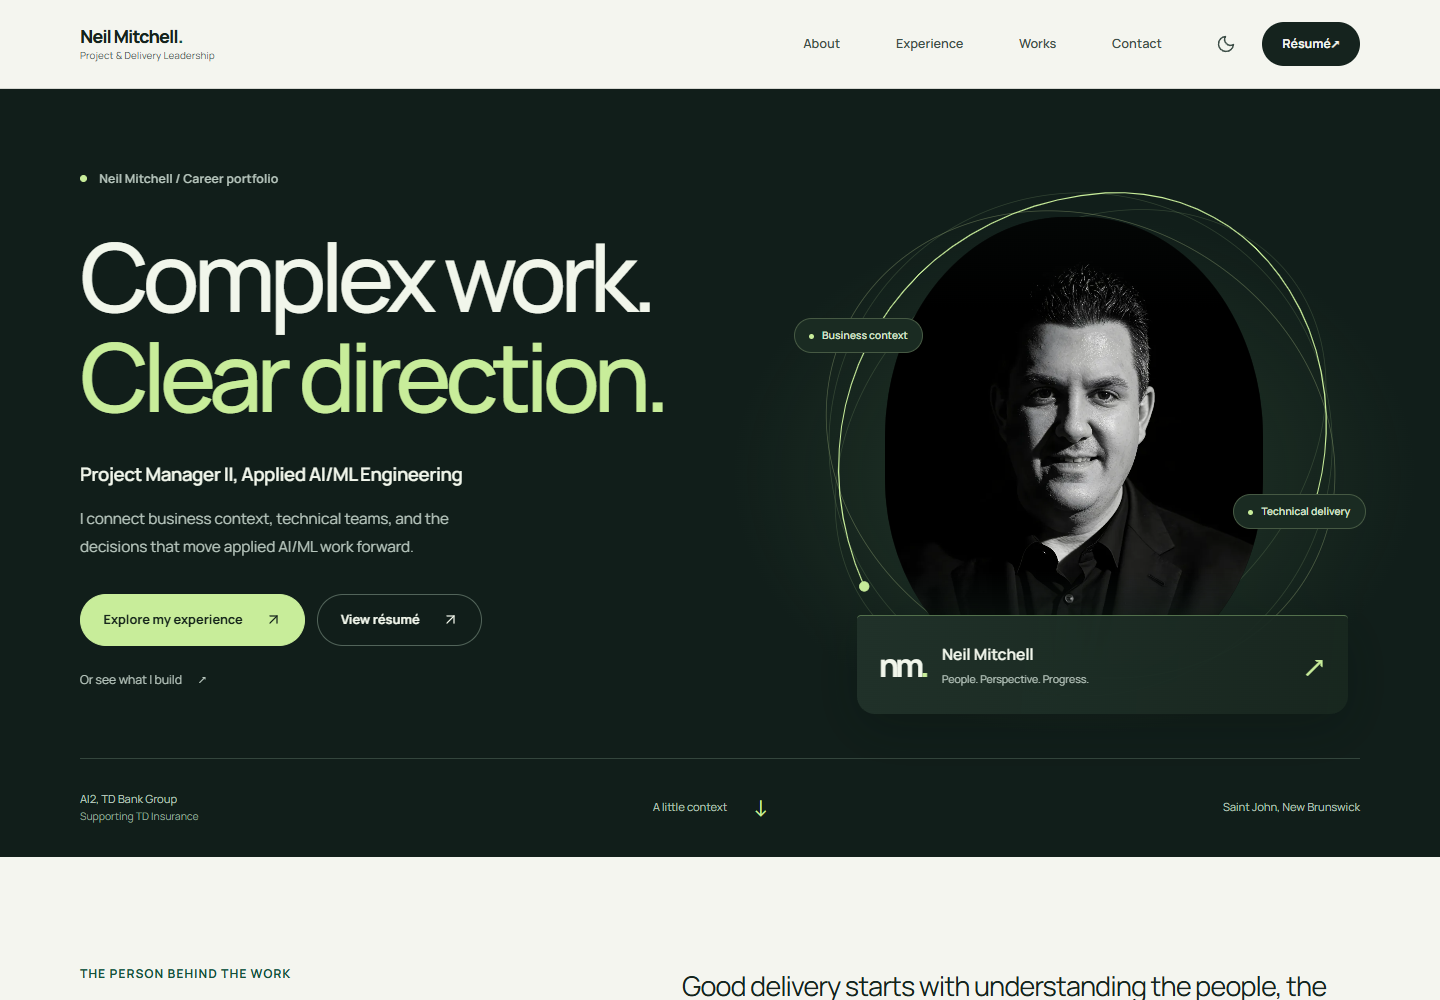
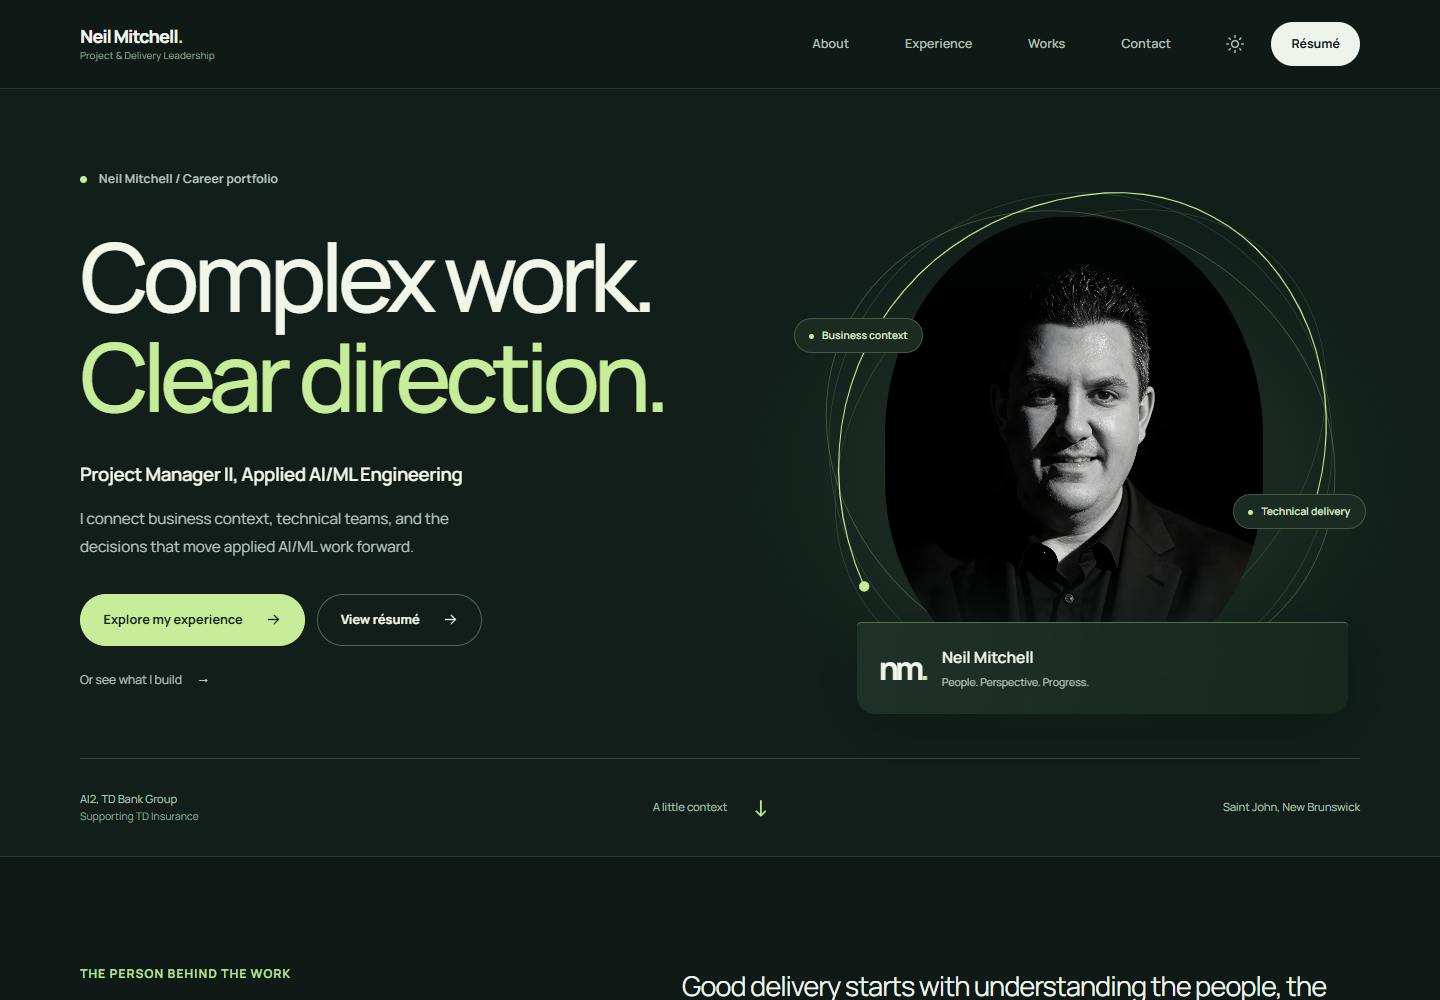
Replace diagonal arrows with simple horizontal cues

Changed region(s): [[0.0, 0.837, 1.0, 1.0], [0.0, 0.0, 1.0, 0.093], [0.5938, 0.589, 0.7188, 0.713]]

diff --git a/app/works/[slug]/page.tsx b/app/works/[slug]/page.tsx
@@ -1,7 +1,7 @@
 import type { Metadata } from "next";
 
 import { notFound } from "next/navigation";
-import { ArrowDownRightIcon } from "@/components/Icons";
+import { ArrowRightIcon } from "@/components/Icons";
 import ProjectGrowthChart from "@/components/ProjectGrowthChart";
 import ProjectPreview from "@/components/ProjectPreview";
 import ProjectReleaseFlow from "@/components/ProjectReleaseFlow";
@@ -98,7 +98,7 @@ export default async function ProjectPage({ params }: ProjectPageProps) {
                 ))}
               </ul>
               <a className="case-study__start" href="#case-problem">
-                Inside the project <ArrowDownRightIcon />
+                Inside the project <ArrowRightIcon />
               </a>
             </div>
           </div>
@@ -242,19 +242,19 @@ export default async function ProjectPage({ params }: ProjectPageProps) {
           </div>
           <div className="case-study__actions">
             <a href={project.links.repository} target="_blank" rel="noreferrer">
-              View repository <ArrowDownRightIcon />
+              View repository <ArrowRightIcon />
             </a>
             <a href={project.links.releases} target="_blank" rel="noreferrer">
-              Latest release <ArrowDownRightIcon />
+              Latest release <ArrowRightIcon />
             </a>
             <a href={project.links.license} target="_blank" rel="noreferrer">
-              {project.licenseLabel} licence <ArrowDownRightIcon />
+              {project.licenseLabel} licence <ArrowRightIcon />
             </a>
             <a href={project.links.compliance} target="_blank" rel="noreferrer">
-              Compliance notes <ArrowDownRightIcon />
+              Compliance notes <ArrowRightIcon />
             </a>
             <a href={project.links.upstream} target="_blank" rel="noreferrer">
-              Original project <ArrowDownRightIcon />
+              Original project <ArrowRightIcon />
             </a>
           </div>
         </div>

diff --git a/sections/Contact.tsx b/sections/Contact.tsx
@@ -1,5 +1,5 @@
 import CopyEmailButton from "@/components/CopyEmailButton";
-import { ArrowDownRightIcon, LinkedInIcon } from "@/components/Icons";
+import { ArrowRightIcon, LinkedInIcon } from "@/components/Icons";
 import { profile } from "@/data/profile";
 
 export default function Contact() {
@@ -17,7 +17,7 @@ export default function Contact() {
             <p>{profile.contact.description}</p>
             <a className="contact__email" href={`mailto:${profile.social.email}`}>
               {profile.social.email}
-              <ArrowDownRightIcon />
+              <ArrowRightIcon />
             </a>
           </div>
         </div>
@@ -30,7 +30,7 @@ export default function Contact() {
           >
             <LinkedInIcon />
             <span>Connect on LinkedIn</span>
-            <ArrowDownRightIcon />
+            <ArrowRightIcon />
           </a>
           <CopyEmailButton email={profile.social.email} />
           {profile.resume.available && (
@@ -42,7 +42,7 @@ export default function Contact() {
               aria-label={`View résumé, updated ${profile.resume.lastUpdated}`}
             >
               <span>View résumé</span>
-              <ArrowDownRightIcon />
+              <ArrowRightIcon />
             </a>
           )}
           <span className="contact__note">{profile.status}</span>

diff --git a/sections/Hero.tsx b/sections/Hero.tsx
@@ -1,5 +1,5 @@
 import SystemGraph from "@/components/SystemGraph";
-import { ArrowDownRightIcon } from "@/components/Icons";
+import { ArrowRightIcon } from "@/components/Icons";
 import { profile } from "@/data/profile";
 
 export default function Hero() {
@@ -21,7 +21,7 @@ export default function Hero() {
           <p className="hero__introduction">{profile.heroSummary}</p>
           <div className="hero__actions">
             <a className="button button--primary" href="#experience">
-              Explore my experience <ArrowDownRightIcon />
+              Explore my experience <ArrowRightIcon />
             </a>
             {profile.resume.available && (
               <a
@@ -30,12 +30,12 @@ export default function Hero() {
                 target="_blank"
                 rel="noreferrer"
               >
-                View résumé <ArrowDownRightIcon />
+                View résumé <ArrowRightIcon />
               </a>
             )}
           </div>
           <a className="hero__work-link" href="#works">
-            Or see what I build <span aria-hidden="true">↗</span>
+            Or see what I build <span aria-hidden="true">→</span>
           </a>
         </div>
         <SystemGraph />

diff --git a/app/redesign.css b/app/redesign.css
@@ -495,11 +495,6 @@ section[id] {
 .portrait-scene__monogram > span {
   color: var(--hero-accent);
 }
-.portrait-scene__arrow {
-  margin-left: auto;
-  color: var(--hero-accent);
-  font-size: 2rem;
-}
 
 .about {
   background: var(--color-canvas);
@@ -525,10 +520,6 @@ section[id] {
   font-size: 1.1rem;
   font-weight: 600;
   letter-spacing: -0.07em;
-}
-.about__signature span {
-  color: var(--color-signal);
-  font-size: 2.5rem;
 }
 .about__story > p {
   max-width: 64ch;
@@ -834,9 +825,6 @@ section[id] {
     font-size: 0.78rem;
   }
   .portrait-scene__monogram {
-    font-size: 1.6rem;
-  }
-  .portrait-scene__arrow {
     font-size: 1.6rem;
   }
   .hero__location {

diff --git a/sections/Works.tsx b/sections/Works.tsx
@@ -1,5 +1,5 @@
 import ProjectCard from "@/components/ProjectCard";
-import { ArrowDownRightIcon } from "@/components/Icons";
+import { ArrowRightIcon } from "@/components/Icons";
 import { projects } from "@/data/projects";
 
 export default function Works() {
@@ -31,7 +31,7 @@ export default function Works() {
           {/* Native navigation supports static hosts without RSC rewrite rules. */}
           {/* eslint-disable-next-line @next/next/no-html-link-for-pages */}
           <a href="/works">
-            Explore all work <ArrowDownRightIcon />
+            Explore all work <ArrowRightIcon />
           </a>
         </div>
       </div>

diff --git a/components/ProjectCard.tsx b/components/ProjectCard.tsx
@@ -1,5 +1,5 @@
 import type { Project } from "@/data/projects";
-import { ArrowDownRightIcon } from "./Icons";
+import { ArrowRightIcon } from "./Icons";
 import ProjectPreview from "./ProjectPreview";
 
 type ProjectCardProps = {
@@ -38,7 +38,7 @@ export default function ProjectCard({ project, index, priority = false }: Projec
           ))}
         </ul>
         <a className="project-card__link" href={`/works/${project.slug}`}>
-          Read case study <ArrowDownRightIcon />
+          Read case study <ArrowRightIcon />
         </a>
       </div>
     </article>

diff --git a/app/career.css b/app/career.css
@@ -62,15 +62,6 @@
 .career-current__location {
   margin-top: 1.5rem;
 }
-.career-current__arrow {
-  margin-top: auto;
-  padding-top: 2.5rem;
-  color: var(--color-signal);
-  font-family: var(--font-primary);
-  font-size: 4.5rem;
-  font-weight: 300;
-  line-height: 1;
-}
 .career-current__body {
   padding: clamp(1.6rem, 3.5vw, 3.5rem);
 }
@@ -535,9 +526,6 @@
   }
   .career-current__location {
     align-self: end;
-  }
-  .career-current__arrow {
-    display: none;
   }
   .career-entry__summary {
     grid-template-columns: minmax(0, 1fr) 2.75rem;

diff --git a/sections/Approach.tsx b/sections/Approach.tsx
@@ -27,9 +27,7 @@ export default function Approach() {
         >
           <div className="delivery-path__legend">
             <h3 id="delivery-map-title">Intent to implementation</h3>
-            <span>
-              Six connected steps <span aria-hidden="true">↗</span>
-            </span>
+            <span>Six connected steps</span>
           </div>
           <ol className="delivery-map__stages delivery-path__stages">
             {deliveryStages.map((stage) => (

diff --git a/sections/Experience.tsx b/sections/Experience.tsx
@@ -91,9 +91,6 @@ function CurrentRole({ role }: { role: ExperienceRecord }) {
           <br />
           {role.employmentType}
         </p>
-        <span className="career-current__arrow" aria-hidden="true">
-          ↗
-        </span>
       </div>
       <div className="career-current__body">
         <p className="career-current__chapter">{role.chapter}</p>

diff --git a/components/Navigation.tsx b/components/Navigation.tsx
@@ -93,7 +93,7 @@ export default function Navigation() {
         <div className="site-nav__actions">
           <DarkModeToggle />
           <a className="nav-contact" href="/resume.pdf" target="_blank" rel="noreferrer">
-            Résumé <span aria-hidden="true">↗</span>
+            Résumé
           </a>
           <button
             ref={menuButtonRef}

diff --git a/components/Icons.tsx b/components/Icons.tsx
@@ -14,11 +14,11 @@ const base = {
   "aria-hidden": true,
 };
 
-export function ArrowDownRightIcon(props: IconProps) {
+export function ArrowRightIcon(props: IconProps) {
   return (
     <svg {...base} {...props}>
-      <path d="M7 7h10v10" />
-      <path d="M7 17 17 7" />
+      <path d="M5 12h14" />
+      <path d="m13 6 6 6-6 6" />
     </svg>
   );
 }

diff --git a/components/SystemGraph.tsx b/components/SystemGraph.tsx
@@ -39,9 +39,6 @@ export default function SystemGraph() {
           <strong>{profile.name}</strong>
           <small>People. Perspective. Progress.</small>
         </span>
-        <span className="portrait-scene__arrow" aria-hidden="true">
-          ↗
-        </span>
       </figcaption>
     </figure>
   );
